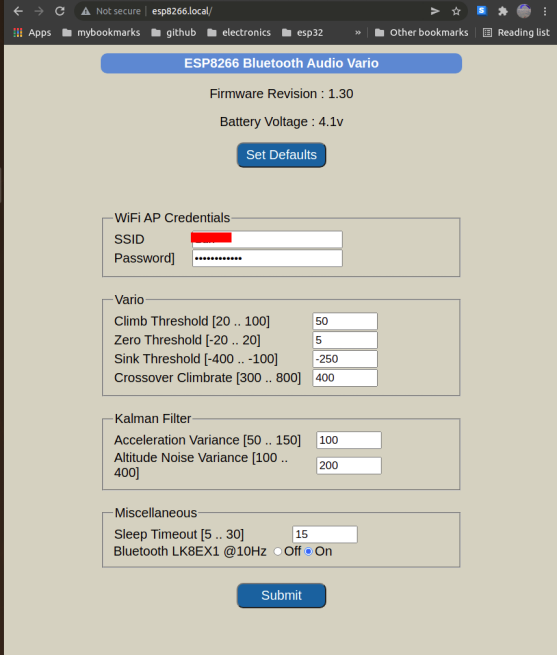
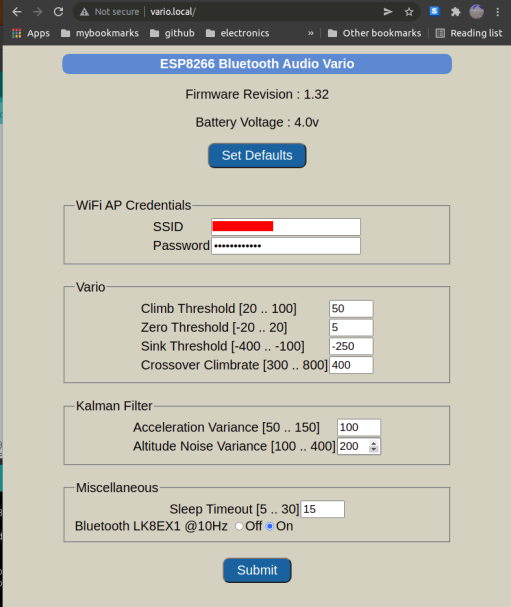
optimize config for portrait

diff --git a/ESP8266_BLUETOOTH_VARIO/data/style.css b/ESP8266_BLUETOOTH_VARIO/data/style.css
@@ -1,39 +1,27 @@
 body{
-	max-width:65%;
-	margin:0 auto;
+	max-width:600px;
+	margin: auto auto;
 	font-family:arial;
-	font-size:100%;
+	font-size:1.0em;
 	text-align:left;
 	color:black;
 	background-color:#d6d0bf;
 	}
 
-ul{
-	list-style-type:none;
-	margin:0.1em;
-	padding:0;
-	border-radius:0.375em;
-	overflow:hidden;
-	background-color:#99CCFF;
-	font-size:1em;
-	}
-
-last-child {
-	border-right:none;
-	font-size:85%
-	}
-
 a:link{
 	color:white;
-	font-size:100%;
+	font-family:arial;
+	font-size:1.0em;
 	text-decoration:none;
 	}
 
 a:hover{
-	color:white;
-	font-size:100%;
+	color:gray;
+	font-family:arial;
+	font-size:1.0em;
 	text-decoration:none;
 	}
+
 
 section {
 	font-size:1.0em;
@@ -43,14 +31,14 @@ h1{
 	color:white;
 	border-radius:0.5em;
 	text-align:center;
-	font-size:1em;
+	font-size:1.0em;
 	padding:0.2em 0.2em;
 	background:#558ED5;
 	}
 
 h2{
 	color:black;
-	font-size:1.0em;
+	font-size: 0.9em;
 	}
 
 h3{
@@ -61,89 +49,39 @@ table{
 	font-family:arial,sans-serif;
 	font-size:1.0em;
 	border-collapse:collapse;
-	width:80%;
+	margin : auto;
 	}
 
-.rcorners_n {
-	border-radius:0.5em;
-	background:#558ED5;
-	padding:0.3em 0.3em;
-	width:20%;
-	color:white;
-	font-size:75%;
+td {
+	text-align: left;
 	}
-	
-.rcorners_m {
-	border-radius:0.5em;
-	background:#558ED5;
-	padding:0.3em 0.3em;
-	width:50%;
-	color:white;
-	font-size:75%;
-	}
-	
-.rcorners_w {
-	border-radius:0.5em;
-	background:#558ED5;
-	padding:0.3em 0.3em;
-	width:70%;
-	color:white;
-	font-size:75%;
-	}
-	
-.column{
-	float:left;
-	width:50%;
-	height:45%;
-	}
-	
-.row:after{
-	content:'';
-	display:table;
-	clear:both;
-	}
-	
-* {
-	box-sizing:border-box;
-	}
-	
-footer {
-	background-color:#009999; 
-	text-align:center;
-	padding:0.3em 0.3em;
-	border-radius:0.375em;
-	font-size:60%;
-	}
-	
+
 button {
-	margin-bottom:1rem;
 	border-radius:0.5em;
 	background:#0066A2;
-	padding:0.3em 0.3em;
+	padding:0.3em 1.0em;
 	align-self:center;
-	width:25%;
 	color:white;
-	font-size:100%;
+	font-size:1.0em;
 	}
 
 input[type="number"] {
 	clear: both;
 	float: left;
-	width: 100px;
+	width: 60px;
 	}
 
 .form-submit-button {
-	margin-bottom:1rem;
 	border-radius:0.5em;
-	padding:0.3em 0.3em;
+	padding:0.3em 1.0em;
 	background:#0066A2;
 	align-self:center;	
+	margin: auto;
 	color:white;
-	width:25%;
-	font-size:100%;
+	font-size:1.0em;
    }
 		
 p {
-	font-size:100%;
+	font-size:1.0em;
 	}
 

diff --git a/ESP8266_BLUETOOTH_VARIO/data/index.html b/ESP8266_BLUETOOTH_VARIO/data/index.html
@@ -24,7 +24,7 @@
 	<td>SSID</td> <td><input type="text" id="ssid" name=ssid value="%SSID%"></td>
 	</tr>
 	<tr>
-	<td>Password]</td> <td><input type="password" id="password" name=password value="%PASSWORD%"></td>
+	<td>Password</td> <td><input type="password" id="password" name=password value="%PASSWORD%"></td>
 	</tr>
 	</table>  
 </fieldset>

diff --git a/ESP8266_BLUETOOTH_VARIO/config.h b/ESP8266_BLUETOOTH_VARIO/config.h
@@ -5,7 +5,7 @@
 // Note : with bluetooth feature support you can still enable or disable bluetooth
 // transmission via the WiFi configuration webpage.
 
-#define CFG_BLUETOOTH   false
+#define CFG_BLUETOOTH   true
 #define CFG_L9110S      true
 #define CFG_LANTERN     te
 
